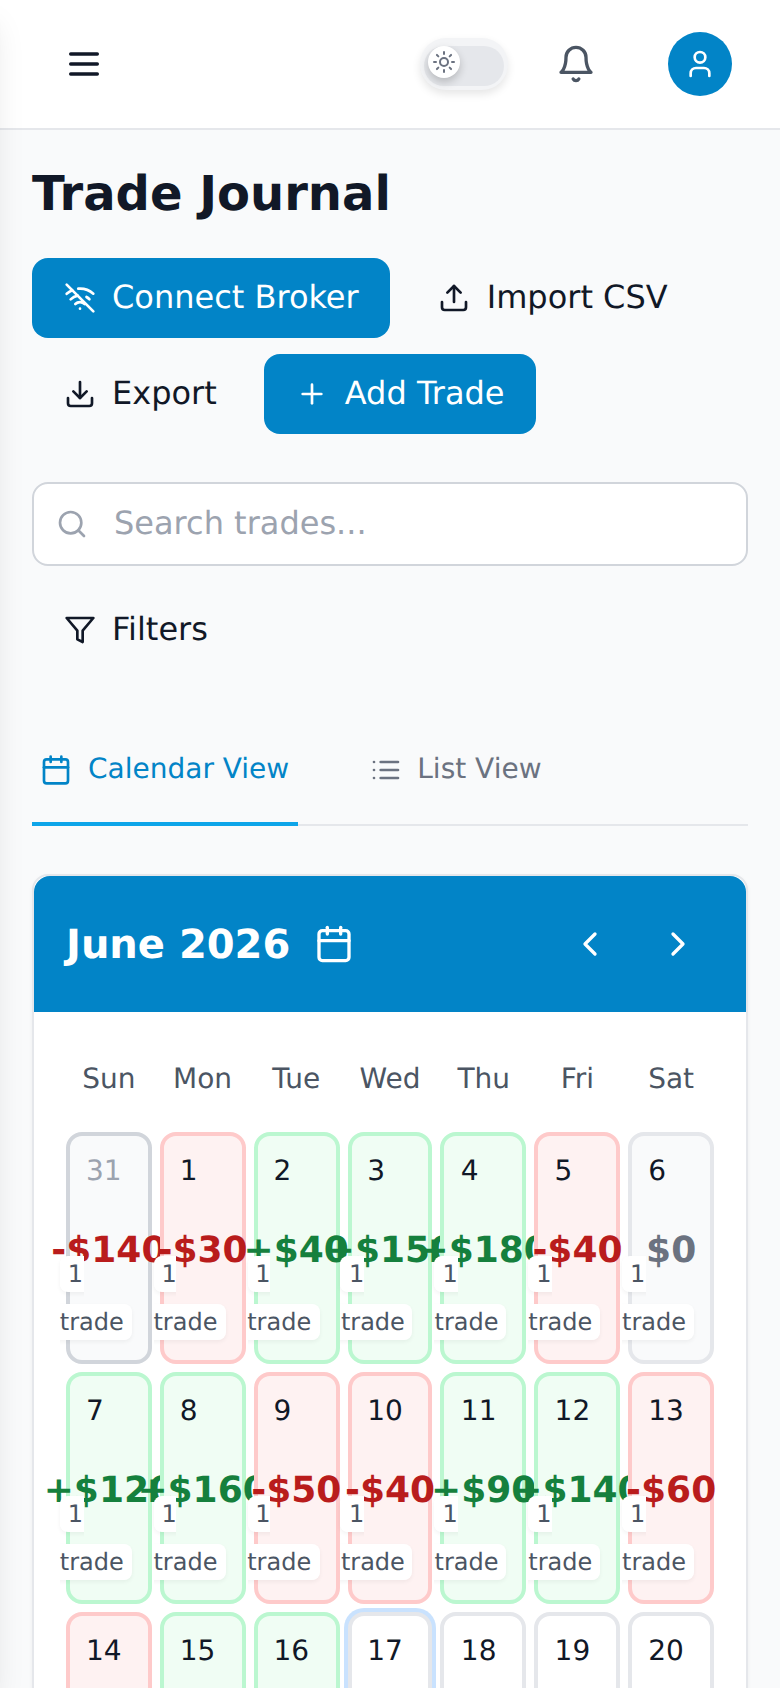
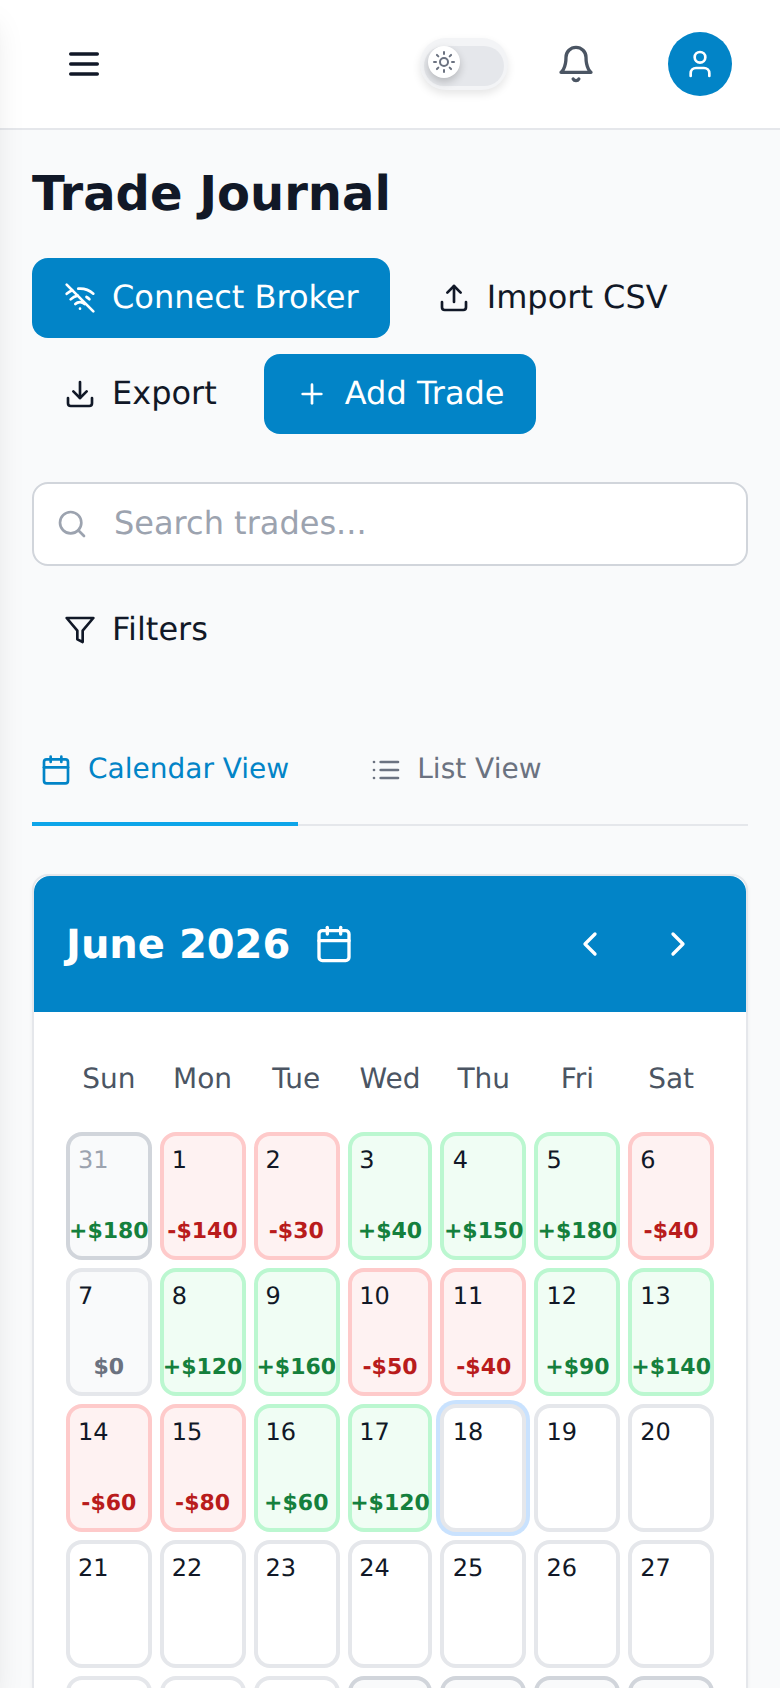
Fix Trade Journal calendar and Connect Account pages on mobile
Trade Journal (TradeCalendar):
- Day cells overflowed on phones — the text-lg P&L value and the
  'N trades' badge were too large for ~45px-wide cells. Cells now use a
  smaller min-height, tighter padding, an 11px P&L value, and the trade
  count badge is hidden on phones (day color + P&L convey the state; the
  exact count is one tap away in the day detail). All desktop sizing is
  preserved via sm: breakpoints.

Connect Account (BrokerSelection):
- Header stacked the title beside the Back button in a fixed row, causing
  cramped wrapping. Now stacks vertically on phones (title, then a
  left-aligned Back button) and keeps the side-by-side row on desktop.
- 'Futures Prop Firms' heading row and the CSV-import row now wrap/stack
  on phones instead of overflowing.

Updated the two mobile screenshots to reflect the fixes.

Claude-Session: https://claude.ai/code/session_01UYuCZqGvagf5qi1PGwsV5P

Changed region(s): [[0.0615, 0.6777, 0.9231, 1.0]]

diff --git a/src/components/trades/TradeCalendar.jsx b/src/components/trades/TradeCalendar.jsx
@@ -156,7 +156,7 @@ const TradeCalendar = ({ trades, onAddTrade, onEditTrade }) => {
               <div
                 key={index}
                 className={`
-                  trade-calendar__day relative min-h-28 p-2 border-2 rounded-lg cursor-pointer
+                  trade-calendar__day relative min-h-16 sm:min-h-28 p-1 sm:p-2 border-2 rounded-lg cursor-pointer
                   transition-all duration-300 ease-out
                   ${
                     isCurrentMonth
@@ -197,7 +197,7 @@ const TradeCalendar = ({ trades, onAddTrade, onEditTrade }) => {
                 )}
                 {/* Date number */}
                 <div
-                  className={`trade-calendar__date text-sm font-medium mb-1 ${
+                  className={`trade-calendar__date text-xs sm:text-sm font-medium mb-0.5 sm:mb-1 ${
                     isCurrentMonth
                       ? "text-gray-900 dark:text-gray-100"
                       : "text-gray-400 dark:text-gray-500"
@@ -210,24 +210,24 @@ const TradeCalendar = ({ trades, onAddTrade, onEditTrade }) => {
                 {hasTrades && (
                   <div className="trade-calendar__indicators flex flex-col items-center justify-center h-full">
                     {/* Daily P&L - Center */}
-                    <div className="flex items-center justify-center mb-11">
+                    <div className="flex items-center justify-center mb-0 sm:mb-11">
                       {dailyPnL === 0 ? (
-                        <div className="text-lg font-bold text-gray-500 dark:text-gray-400">
+                        <div className="text-[11px] sm:text-lg font-bold leading-tight text-gray-500 dark:text-gray-400">
                           $0
                         </div>
                       ) : dailyPnL > 0 ? (
-                        <div className="text-lg font-bold text-green-700 dark:text-green-400">
+                        <div className="text-[11px] sm:text-lg font-bold leading-tight text-green-700 dark:text-green-400">
                           +${Math.abs(dailyPnL).toFixed(0)}
                         </div>
                       ) : (
-                        <div className="text-lg font-bold text-red-700 dark:text-red-400">
+                        <div className="text-[11px] sm:text-lg font-bold leading-tight text-red-700 dark:text-red-400">
                           -${Math.abs(dailyPnL).toFixed(0)}
                         </div>
                       )}
                     </div>
 
-                    {/* Trade count - Bottom Right */}
-                    <div className="absolute bottom-2 right-2">
+                    {/* Trade count - Bottom Right (hidden on phones to keep tiny cells legible) */}
+                    <div className="hidden sm:block absolute bottom-2 right-2">
                       <span className="text-xs text-gray-600 dark:text-gray-400 bg-white dark:bg-gray-800 px-1 py-0.5 rounded shadow-sm">
                         {dayTrades.length} trade
                         {dayTrades.length !== 1 ? "s" : ""}
@@ -243,7 +243,7 @@ const TradeCalendar = ({ trades, onAddTrade, onEditTrade }) => {
 
       {/* Calendar Footer with Summary */}
       <div className="trade-calendar__footer bg-gray-50 dark:bg-gray-900 px-4 py-3 border-t border-gray-200 dark:border-gray-700 rounded-b-lg">
-        <div className="flex items-center justify-between text-sm text-gray-600 dark:text-gray-400">
+        <div className="flex flex-wrap items-center justify-between gap-x-4 gap-y-2 text-xs sm:text-sm text-gray-600 dark:text-gray-400">
           <div>
             Total trades this month:{" "}
             {(() => {

diff --git a/src/pages/BrokerSelection.jsx b/src/pages/BrokerSelection.jsx
@@ -96,9 +96,9 @@ const BrokerSelection = () => {
       <div className="max-w-4xl mx-auto px-4 sm:px-6 lg:px-8">
 
         {/* Page header */}
-        <div className="mb-8 flex items-start justify-between">
+        <div className="mb-8 flex flex-col gap-3 sm:flex-row sm:items-start sm:justify-between">
           <div>
-            <h1 className="text-3xl font-bold text-gray-900 dark:text-gray-100">
+            <h1 className="text-2xl sm:text-3xl font-bold text-gray-900 dark:text-gray-100">
               {isConnected ? "Broker Connection" : "Connect Your Account"}
             </h1>
             <p className="mt-1 text-gray-500 dark:text-gray-400">
@@ -109,7 +109,7 @@ const BrokerSelection = () => {
           </div>
           <button
             onClick={() => navigate("/trades")}
-            className="inline-flex items-center px-4 py-2 border border-gray-300 dark:border-gray-600 rounded-lg text-sm font-medium text-gray-700 dark:text-gray-300 bg-white dark:bg-gray-800 hover:bg-gray-50 dark:hover:bg-gray-700 transition-colors whitespace-nowrap"
+            className="self-start sm:self-auto inline-flex items-center px-4 py-2 border border-gray-300 dark:border-gray-600 rounded-lg text-sm font-medium text-gray-700 dark:text-gray-300 bg-white dark:bg-gray-800 hover:bg-gray-50 dark:hover:bg-gray-700 transition-colors whitespace-nowrap"
             data-testid="back-to-trades-btn"
           >
             <ArrowLeft className="w-4 h-4 mr-2" />
@@ -275,7 +275,7 @@ const BrokerSelection = () => {
 
             {/* Prop firm cards */}
             <div>
-              <div className="flex items-center justify-between mb-4">
+              <div className="flex flex-wrap items-center justify-between gap-2 mb-4">
                 <h2 className="text-lg font-semibold text-gray-900 dark:text-gray-100">
                   Futures Prop Firms
                 </h2>
@@ -348,7 +348,7 @@ const BrokerSelection = () => {
             </div>
 
             {/* CSV import alternative */}
-            <div className="flex items-center justify-between p-5 bg-gray-50 dark:bg-gray-800/50 border border-dashed border-gray-300 dark:border-gray-600 rounded-xl">
+            <div className="flex flex-col gap-3 sm:flex-row sm:items-center sm:justify-between p-5 bg-gray-50 dark:bg-gray-800/50 border border-dashed border-gray-300 dark:border-gray-600 rounded-xl">
               <div>
                 <div className="font-medium text-gray-900 dark:text-gray-100 text-sm">
                   No broker connection? Import via CSV
@@ -359,7 +359,7 @@ const BrokerSelection = () => {
               </div>
               <button
                 onClick={() => setShowCsvModal(true)}
-                className="inline-flex items-center px-4 py-2 border border-gray-300 dark:border-gray-600 rounded-lg text-sm font-medium text-gray-700 dark:text-gray-300 bg-white dark:bg-gray-700 hover:bg-gray-50 dark:hover:bg-gray-600 transition-colors whitespace-nowrap ml-4"
+                className="self-start sm:self-auto inline-flex items-center px-4 py-2 border border-gray-300 dark:border-gray-600 rounded-lg text-sm font-medium text-gray-700 dark:text-gray-300 bg-white dark:bg-gray-700 hover:bg-gray-50 dark:hover:bg-gray-600 transition-colors whitespace-nowrap sm:ml-4"
                 data-testid="csv-import-btn"
               >
                 <Upload className="w-4 h-4 mr-2" />